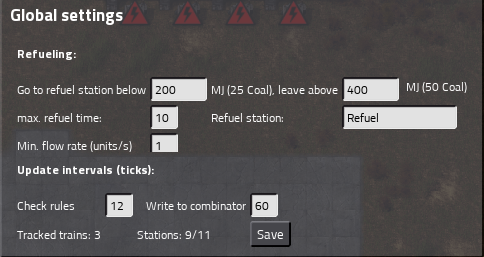
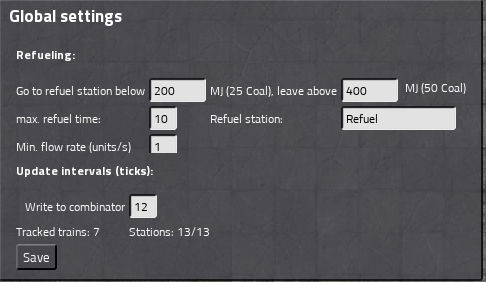
removed unused settings

diff --git a/README.md b/README.md
@@ -60,6 +60,10 @@ Using train circuit output
  - ![Signal train at station](https://raw.githubusercontent.com/Choumiko/SmartTrains/master/graphics/signal_train_at_station.png?raw=true "Signal train at station") : 1 if a train is at the station, 0 otherwise
  - ![Signal line #](https://raw.githubusercontent.com/Choumiko/SmartTrains/master/graphics/signal_line.png?raw=true "Signal line #") : The line number assigned to the trains line, 0 if not on a line
  - ![Signal lowest fuel](https://raw.githubusercontent.com/Choumiko/SmartTrains/master/graphics/signal_lowest_fuel.png?raw=true "Signal lowest fuel") : The lowest fuel in a locomotive of a train (in MJ)
+ - ![Signal station number](https://raw.githubusercontent.com/Choumiko/SmartTrains/master/graphics/signal_station_number.png "Signal station number") : The number of the station
+ 		- Outputs the number set in the mapping or
+ 		- outputs the position in the trains schedule if there is exactly 1 line
+ - ![Signal destination](https://raw.githubusercontent.com/Choumiko/SmartTrains/master/graphics/signal_destination.png "Signal destination") : The # of the station in the schedule where the train is going (set for 1 tick when the train leaves)
  - Additionally it outputs the trains cargo
 
 Using train signal lamp
